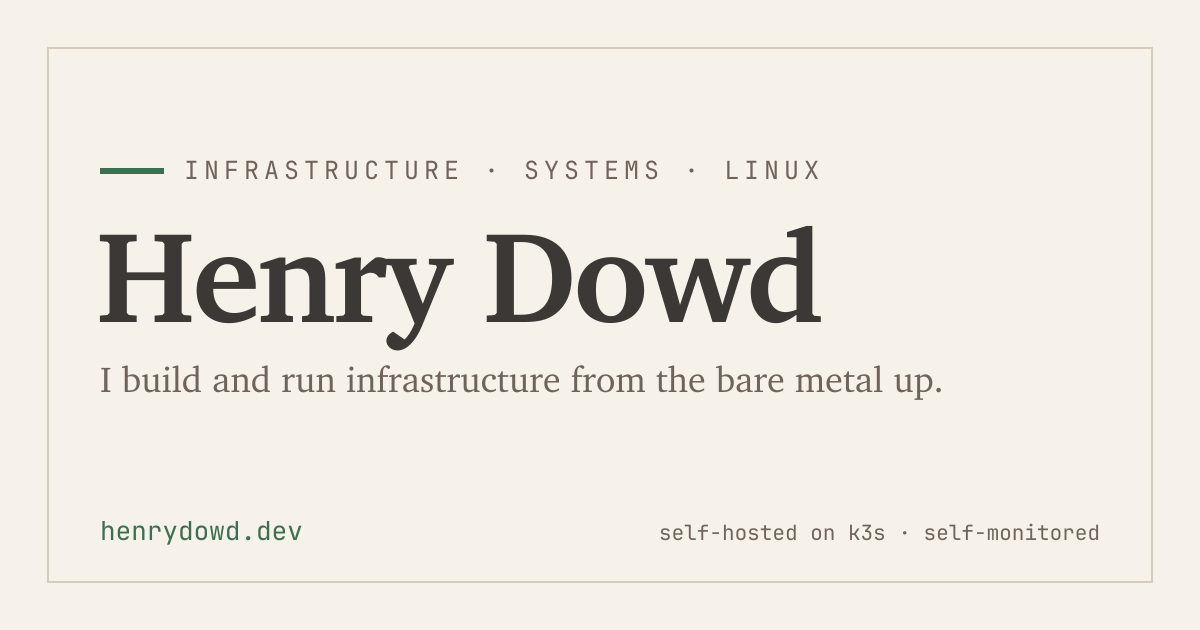
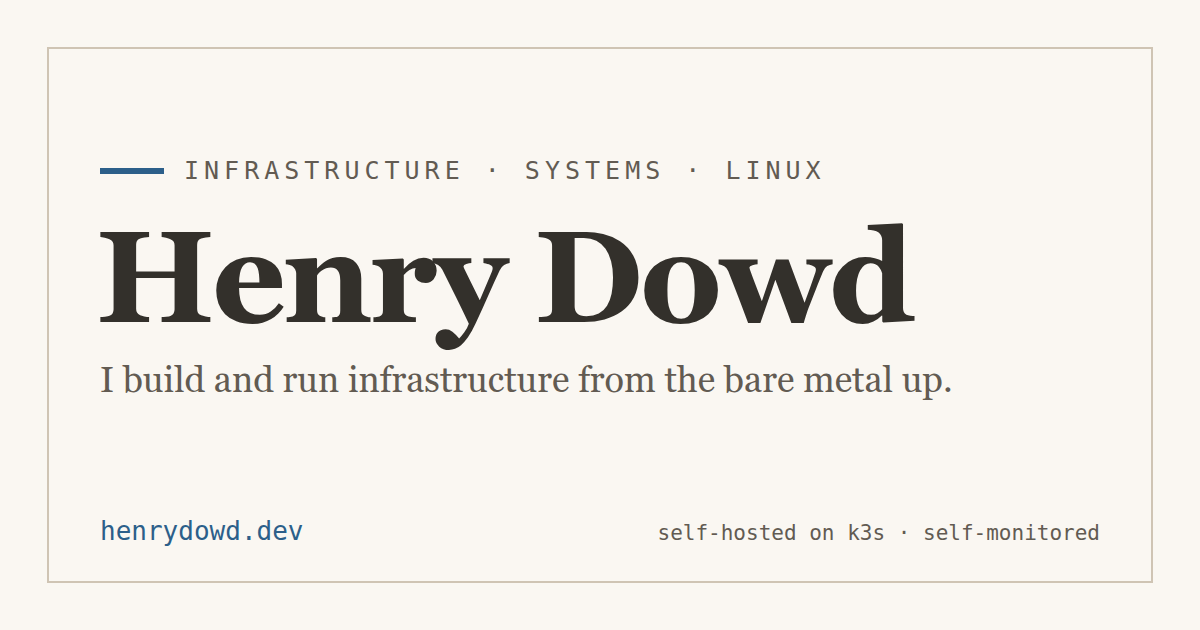
style(web): replace the gruvbox palette with warm paper and a cool accent
The old palette cleared WCAG AA everywhere, so this is not a contrast fix.
The defect was hue, with one root cause: --accent was forest green, which
crowded --ok onto an olive almost indistinguishable from --warn. Measured
separation of the two, on a 0-100 scale, was 9.0 for normal vision and 2.4
simulated for deuteranopia — effectively one colour on a status page whose
dots are the whole point.

Moving the accent to a muted blue frees the green/amber/red range, so the
status triad can be a real green, amber and deep red. Worst-case separation
is now 16.4. What makes that hold up is a luminance gap between --warn and
--err as well as a hue gap; amber and red collapse together otherwise.

Alongside that: the paper drops to about half its previous yellow
saturation so it reads as paper rather than parchment, hairlines go from
1.42:1 (all but invisible) to 1.61:1, and dark mode's --ink stops being a
saturated cream, which is heavy for body text at 18px.

Every value is measured rather than eyeballed — body text at AAA, ink-soft
/ accent / warn at AA, status dots above the 3:1 UI floor against both
backgrounds, and the triad checked under simulated deuteranopia and
protanopia.

og-image.svg mirrors these tokens, so it is recoloured and the PNG
regenerated. rsvg-convert is not installed here any more; the card was
rasterised with headless Chromium at the same 1200x630, Charter resolving
as before.

Claude-Session: https://claude.ai/code/session_01WFsTdfMGd5ndHcM9bCBrGN

diff --git a/web/src/styles/global.css b/web/src/styles/global.css
@@ -10,19 +10,27 @@
  */
 
 :root {
-  /* Palette — Gruvbox light, neutralised: warm off-white paper (the yellow
-     pulled back), dark ink, earthy accents carry the Gruvbox character. */
-  --bg: #f6f2e9;
-  --surface: #ece6d9;
-  --ink: #3c3836;
-  --ink-soft: #6f645a;
-  --line: #d7ccba;
-  --accent: #3c6f50;
+  /* Palette — warm paper, cool accent.
+     The paper keeps the editorial character at roughly half the previous
+     yellow saturation, so it reads as paper rather than parchment. The accent
+     is a muted blue; it used to be forest green, which crowded --ok onto an
+     olive that was hard to tell from --warn at dot size, and nearly identical
+     to it under red-green colour deficiency. Moving the accent off green frees
+     the whole green/amber/red range for status. */
+  --bg: #faf7f2;
+  --surface: #f1ece3;
+  --ink: #33302b;
+  --ink-soft: #625b52;
+  --line: #cfc4b4;
+  --accent: #2c5f8a;
 
-  /* Status colours (Gruvbox, darkened to clear WCAG AA 4.5:1 on --surface) */
-  --ok: #6b670c;
-  --warn: #8c5b0f;
-  --err: #9d0006;
+  /* Status colours. Mostly dot/cell backgrounds (3:1 UI minimum against both
+     --bg and --surface); --warn is also body text on the draft banner, so it
+     clears 4.5:1. Separated by luminance as well as hue, so the triad stays
+     readable simulated for deuteranopia and protanopia. */
+  --ok: #2f7d4f;
+  --warn: #8e6d0b;
+  --err: #8c1420;
 
   /* Type system — one rule across every page: serif for headings + anything
      that should stand out, sans for readable body, mono for data/labels/dates. */
@@ -38,16 +46,18 @@
 
 @media (prefers-color-scheme: dark) {
   :root {
-    /* Gruvbox dark: warm charcoal (not near-black), cream ink, bright accents. */
-    --bg: #282828;
-    --surface: #32302f;
-    --ink: #ebdbb2;
-    --ink-soft: #a89984;
-    --line: #504945;
-    --accent: #8ec07c;
-    --ok: #b8bb26;
-    --warn: #fe8019;
-    --err: #fb4934;
+    /* Warm charcoal, warm off-white ink. The ink was a saturated cream, which
+       is heavy for body text at this size; this is the same warmth with the
+       yellow pulled out. Same status reasoning as above. */
+    --bg: #1e1c1a;
+    --surface: #2a2724;
+    --ink: #ece7df;
+    --ink-soft: #a49b91;
+    --line: #423d38;
+    --accent: #7fb3d9;
+    --ok: #86cc90;
+    --warn: #dfc04a;
+    --err: #e0574e;
   }
 }
 

diff --git a/README.md b/README.md
@@ -175,7 +175,7 @@ parser, the Gitea commit curation, the metrics exposition format, the cache's
 stale-while-revalidate behaviour, and the security headers. CI runs the tests as
 a gate before the image is built.
 
-The front-end's visual direction (a Swiss/editorial, Gruvbox-themed layout that
+The front-end's visual direction (a Swiss/editorial, warm-paper layout that
 deliberately avoids the generic "AI-generated" aesthetic) is documented in
 [`docs/design.md`](docs/design.md).
 
